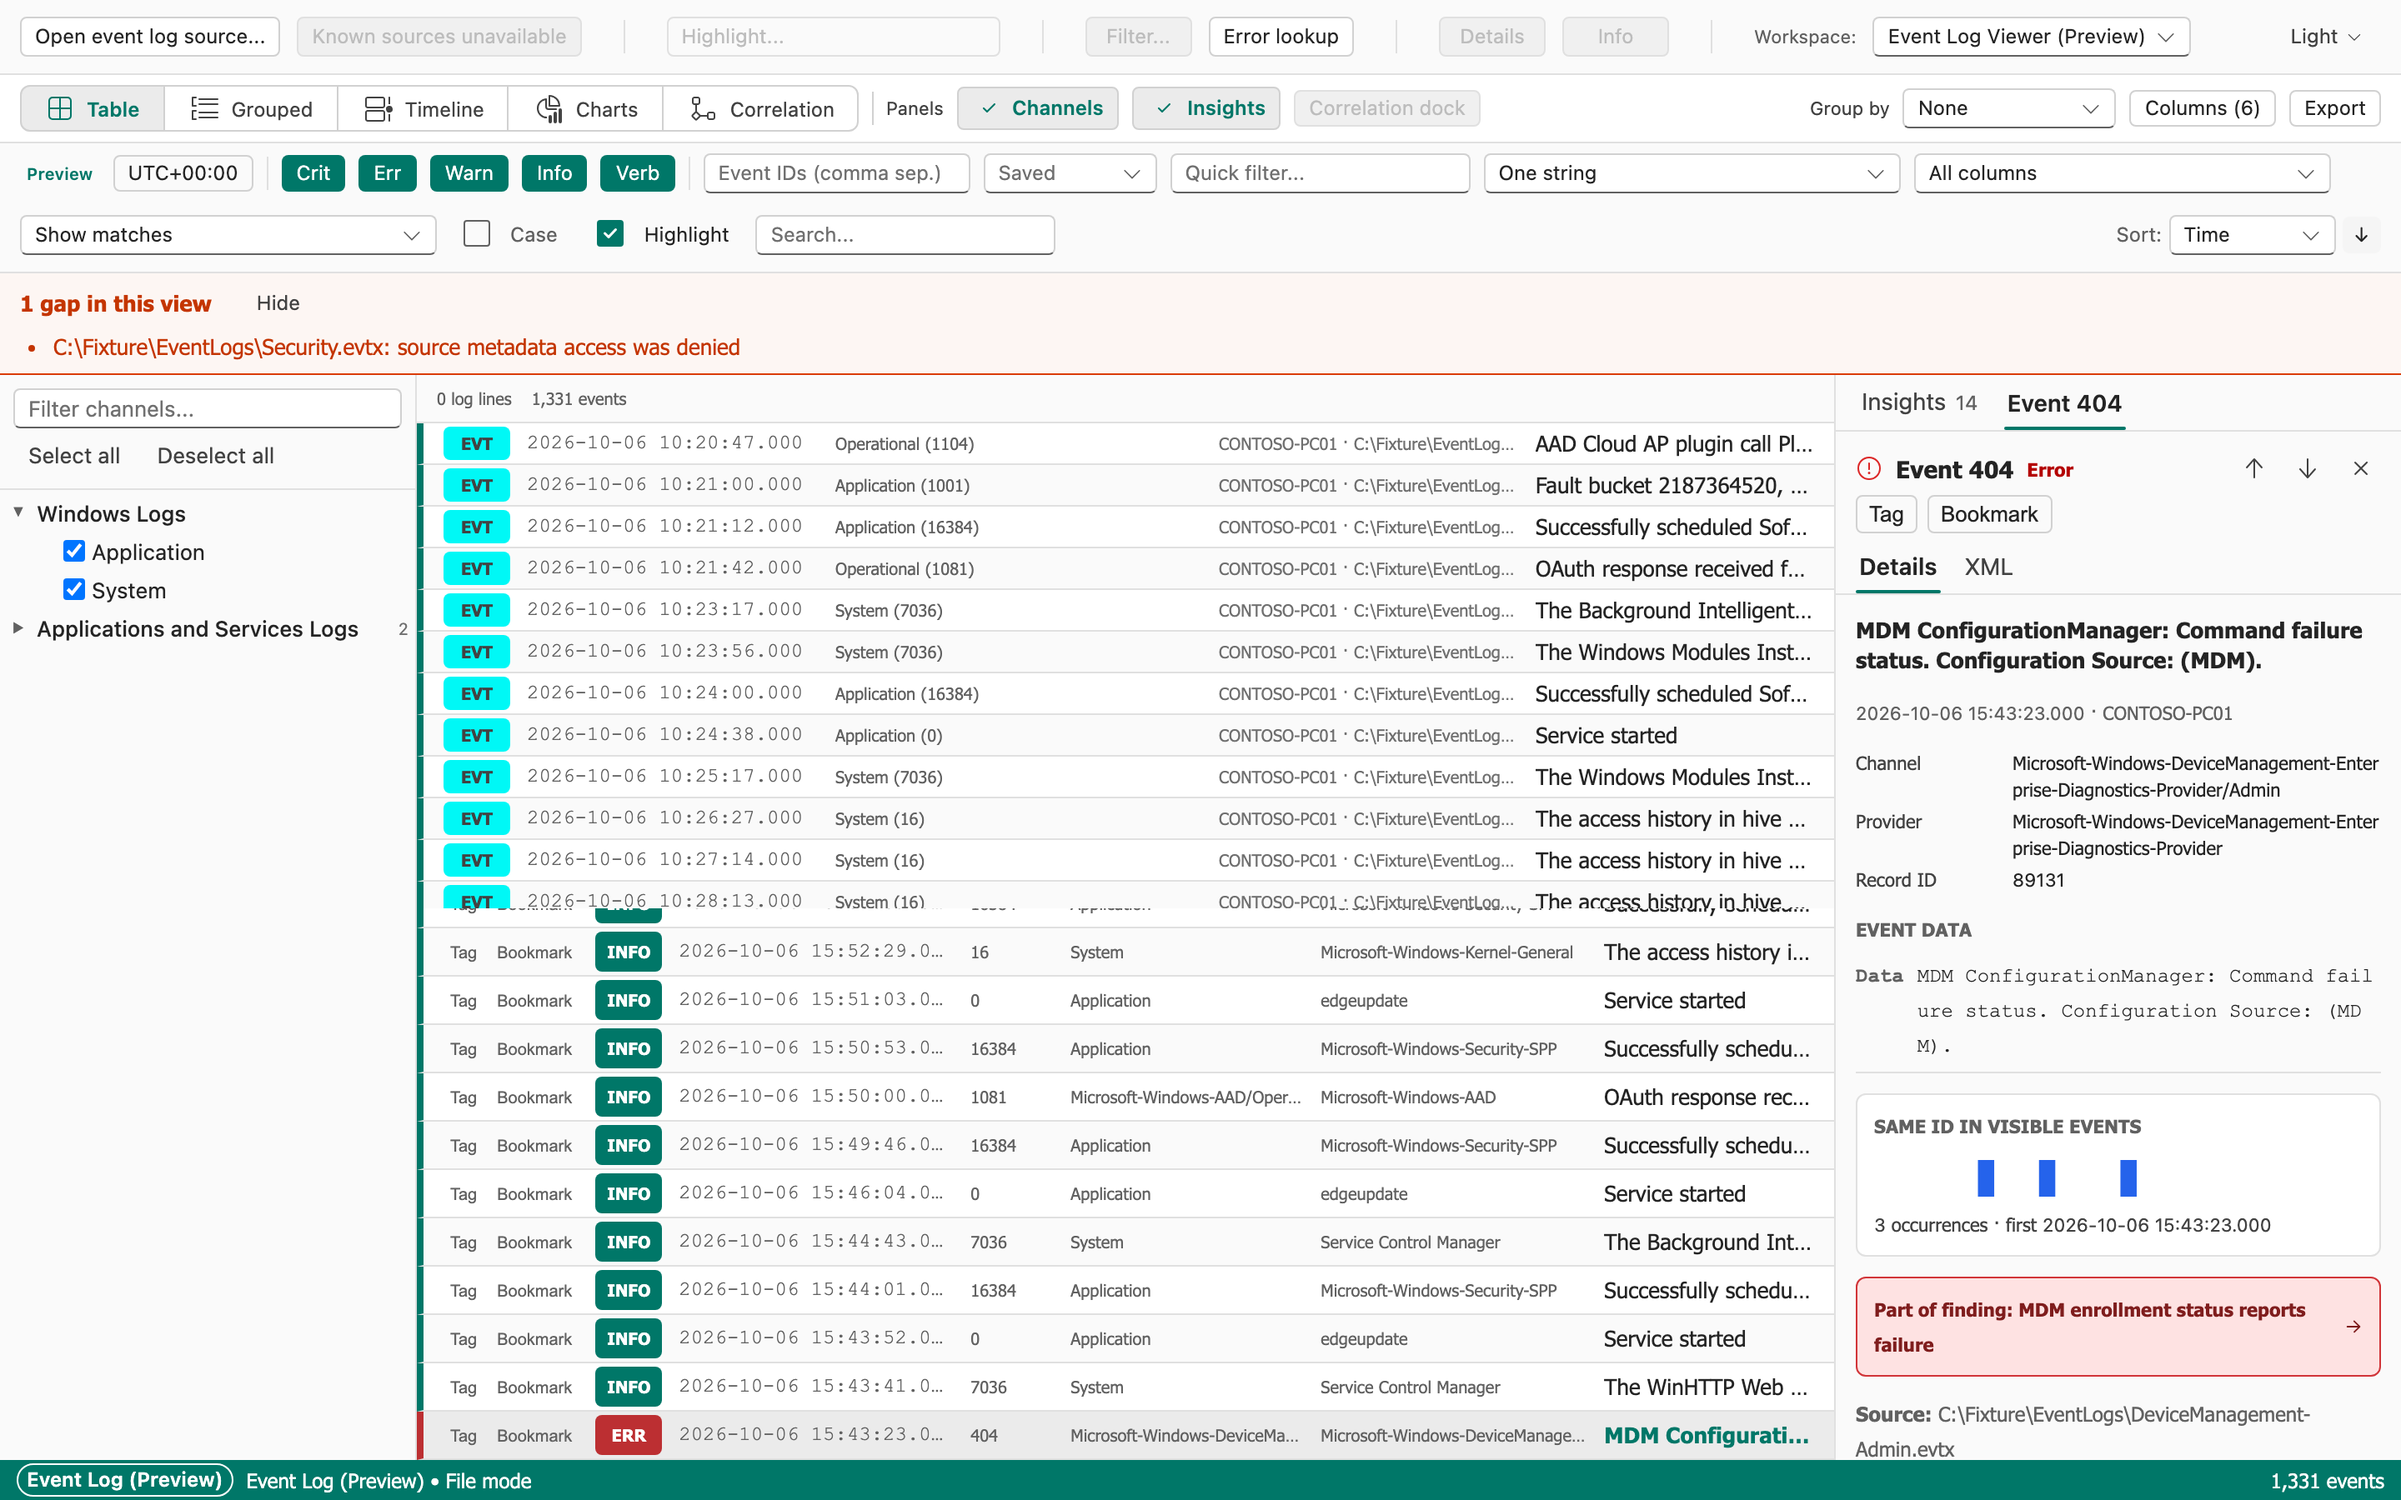
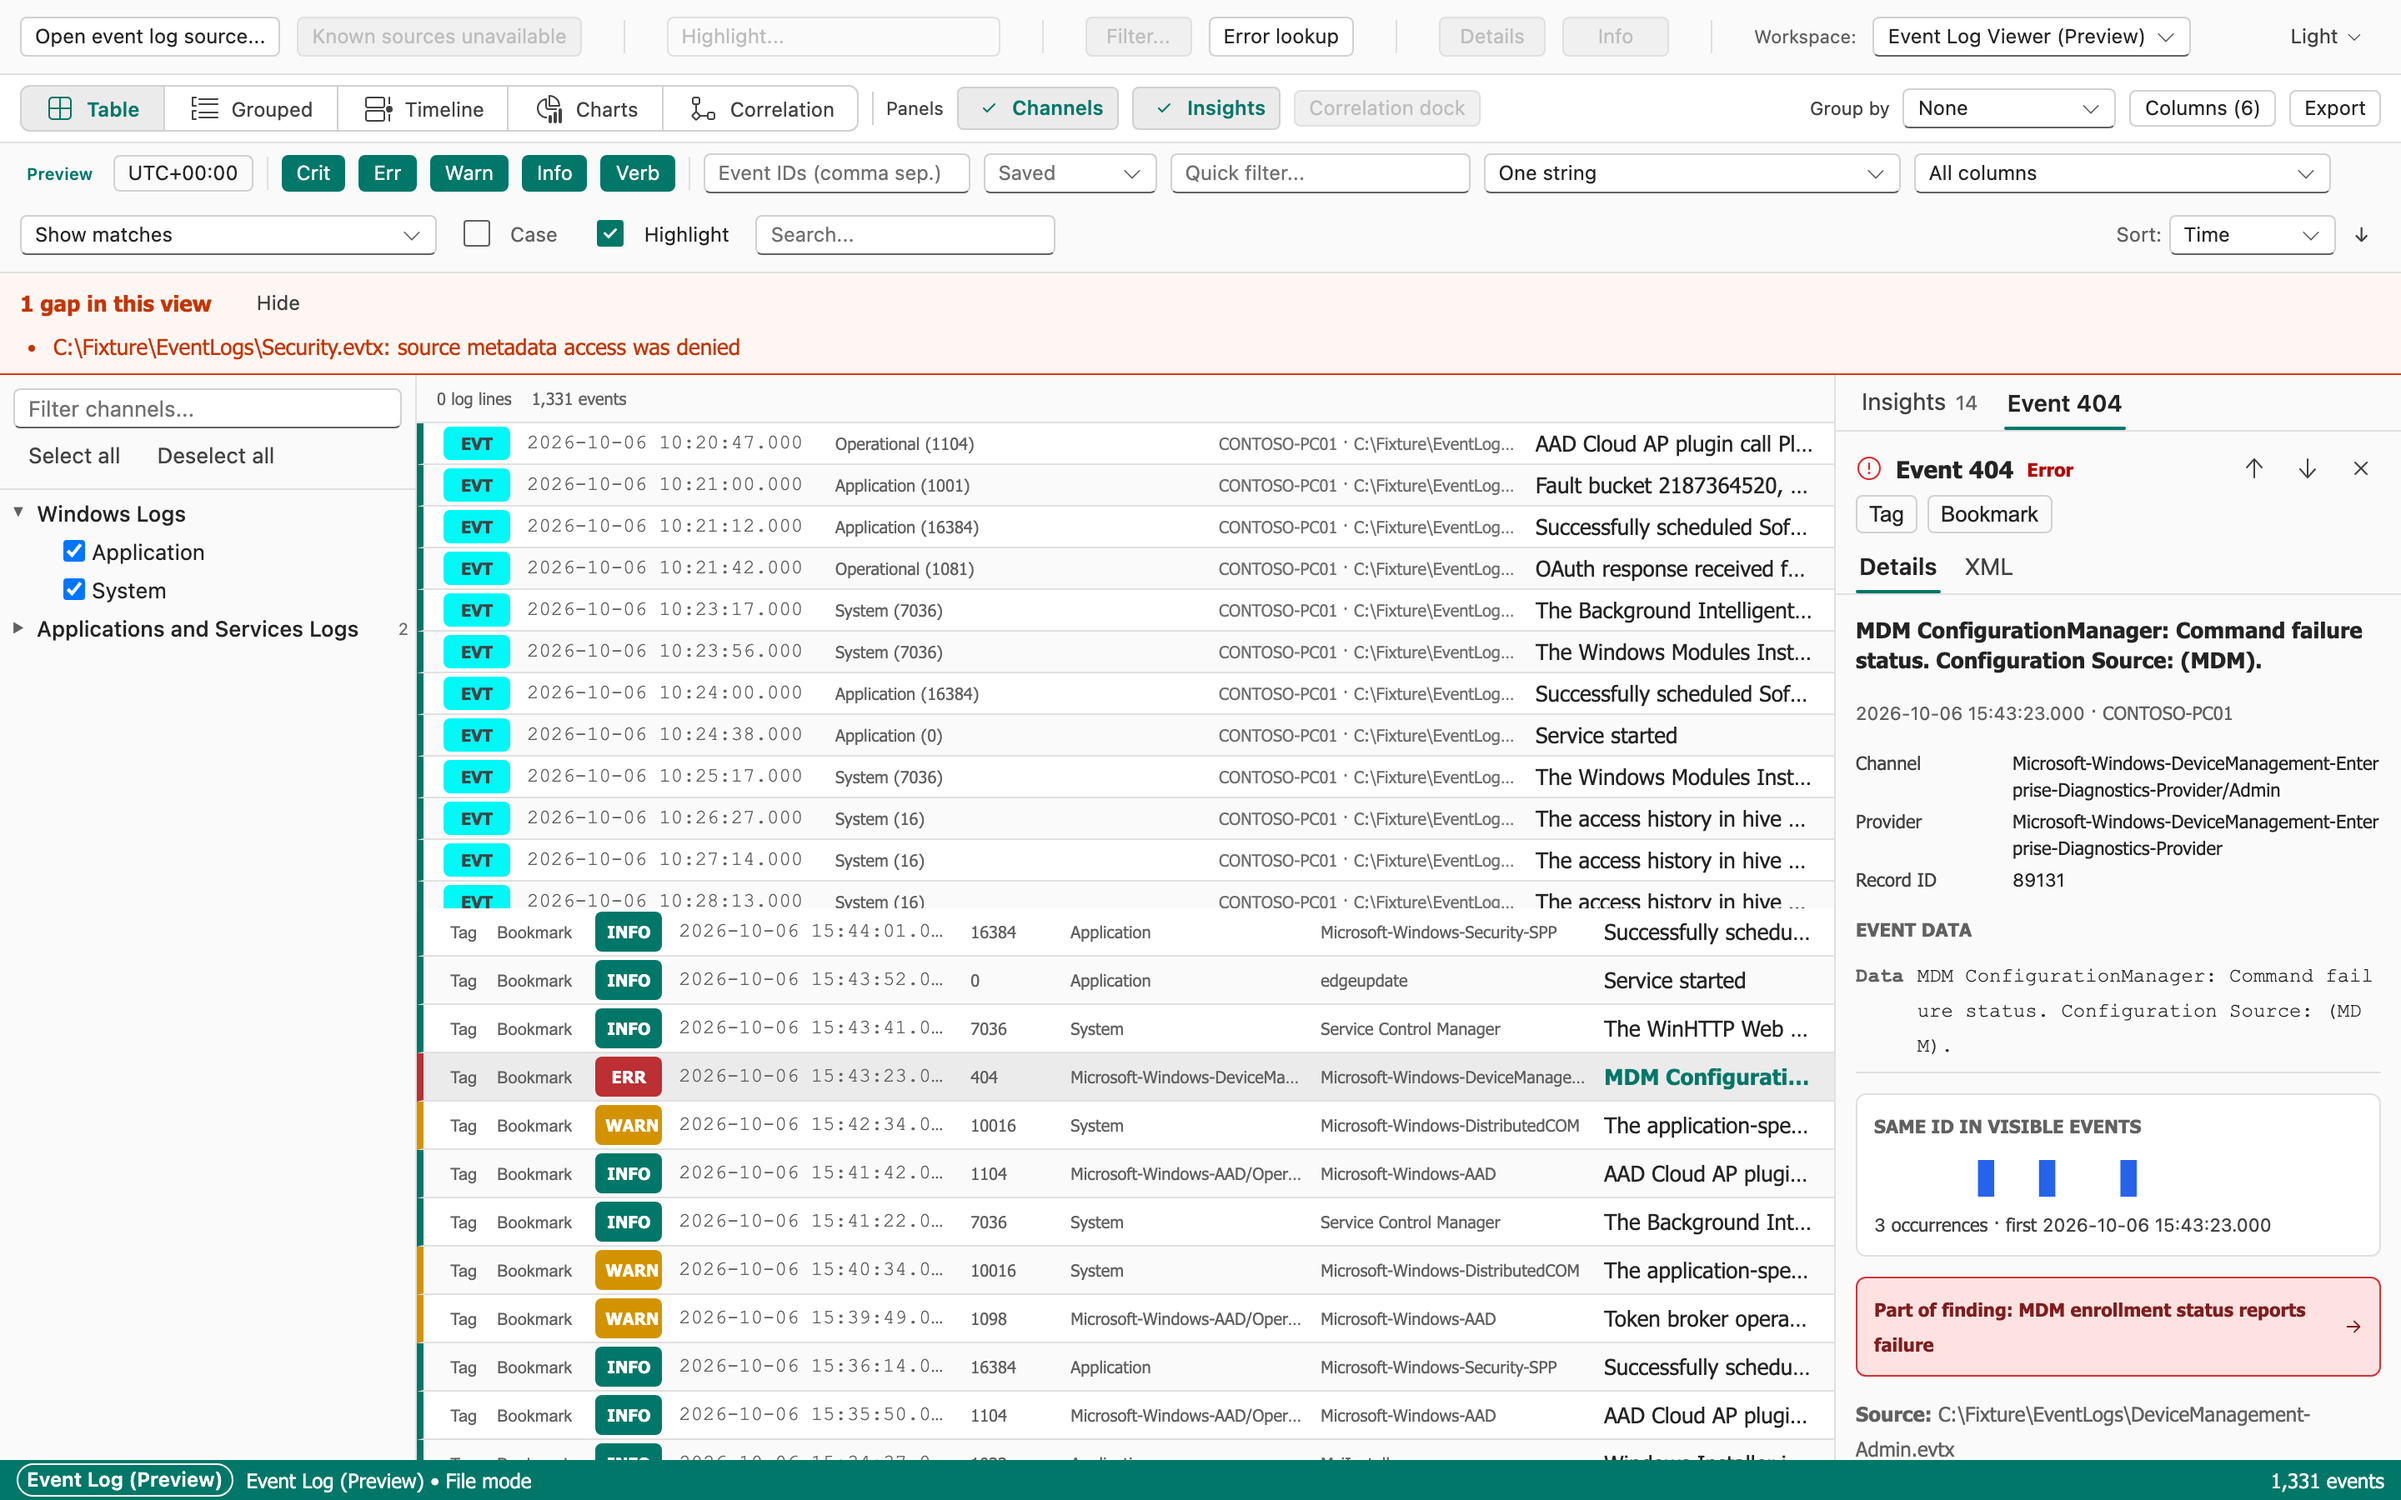
test(e2e): the selected capture selects its record with a real row click (#830)

Changed region(s): [[0.1562, 0.5911, 0.75, 0.9956]]

diff --git a/e2e/screenshots/event-logs.spec.ts b/e2e/screenshots/event-logs.spec.ts
@@ -246,19 +246,22 @@ test.describe("event-logs screenshots", () => {
     // 404 at record 89131, the first piece of evidence of the top finding. The engine's evidence is
     // the redacted display projection (machine as a [host:...] token, source as the file path), and
     // the callout matches on event ID, provider, channel and record ID, so this record matches
-    // uniquely. It goes through the same action a row click calls, and the grid scrolls the row
-    // into view.
-    await page.evaluate(async () => {
-      const { useEvtxStore } = await import("/src/workspaces/event-log/evtx-store.ts");
-      const { selectRecordAndShowDetails } = await import(
-        "/src/workspaces/event-log/evtx-select-record.ts"
-      );
-      const record = useEvtxStore
-        .getState()
-        .records.find((candidate) => candidate.eventRecordId === 89131 && candidate.eventId === 404);
-      if (!record) throw new Error("fixture record 404 / 89131 is not loaded");
-      selectRecordAndShowDetails(record.id);
+    // uniquely. A real row click drives it into Details: newest first, this record is row 1026 of
+    // 1331, below the fold of a virtualized list, so scroll it into the rendered window first (the
+    // way the Phase 2 capture did), then click it.
+    const grid = page.getByRole("grid", { name: timelineGridName });
+    await grid.evaluate((el) => {
+      // Rows are not a fixed height (the level badge column varies), so scale by the list's own
+      // height: a few rows above row 1026 of 1331.
+      el.scrollTop = Math.floor((el.scrollHeight * 1022) / 1331);
     });
+    const row = grid
+      .getByRole("row")
+      .filter({ hasText: "15:43:23" })
+      .filter({ hasText: "MDM Configurati" })
+      .first();
+    await expect(row).toBeVisible();
+    await row.click();
     const detail = page.getByRole("region", { name: "Event log details" });
     await expect(detail).toContainText("Command failure status");
     await expect(detail.getByRole("button", { name: /Part of finding/ })).toBeVisible();
